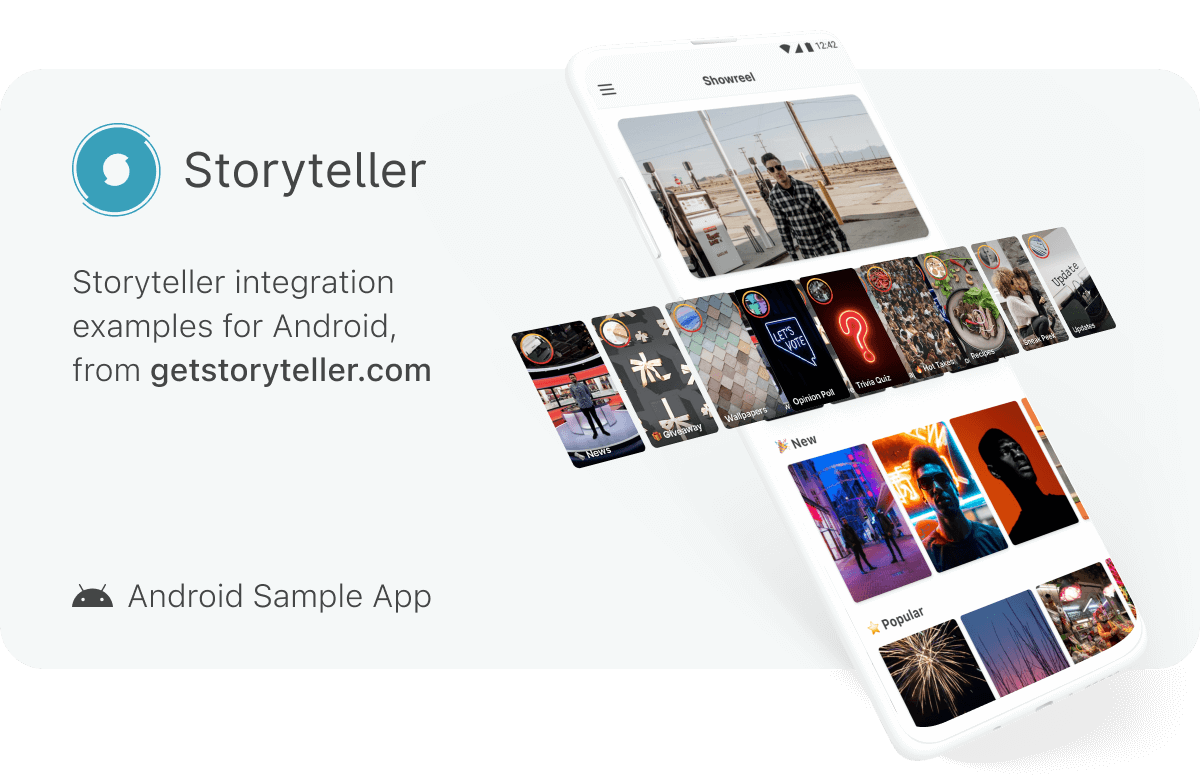
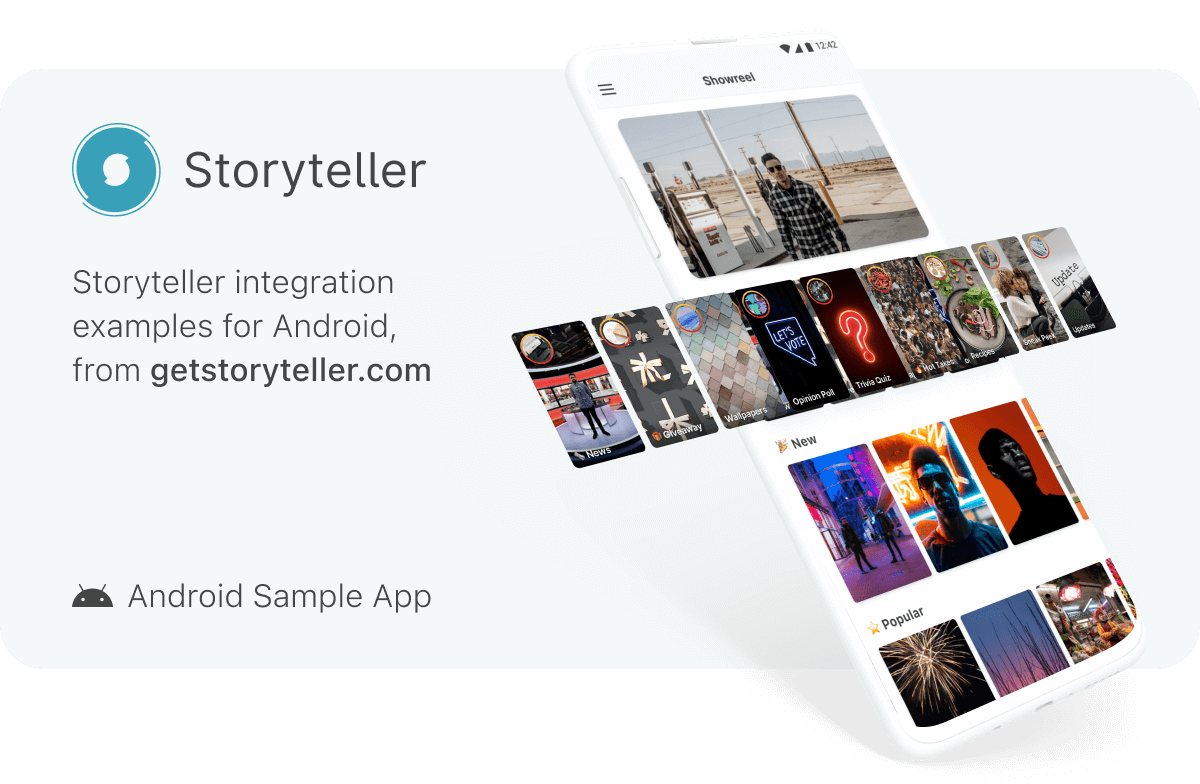
Updating cover image

diff --git a/README.md b/README.md
@@ -1,7 +1,7 @@
 # Storyteller Android Sample App
 
 <a href="https://getstoryteller.com" target="_blank">
-  <img alt="Storyteller integration examples for Android, from getstoryteller.com" src="img/readme-cover.png">
+  <img alt="Storyteller integration examples for Android, from getstoryteller.com" src="img/readme-cover.png" width="1200" height="784">
 </a>
 
 ![Gradle Compatible](https://img.shields.io/badge/Gradle-Compatible-green?logo=gradle)
